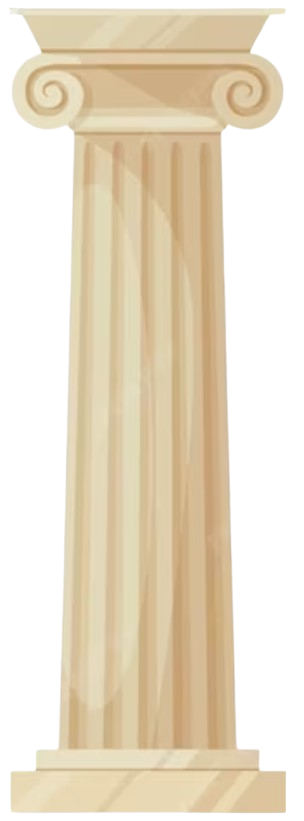
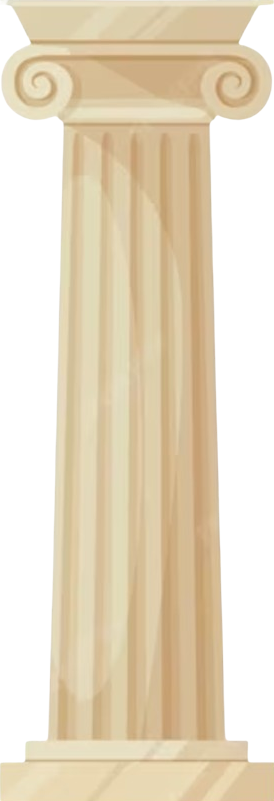
added parallax, no bugs

Changed region(s): [[0.0, 0.0, 1.0, 1.0], [0.438, 0.4682, 0.4672, 0.5618]]

diff --git a/minimalist-game-framework-core/Game/Game.cs b/minimalist-game-framework-core/Game/Game.cs
@@ -26,7 +26,7 @@ class Game
     private LoseScreen loseScreen = new LoseScreen();
     private CreditScreen creditScreen;
     private bool showStartMenu = true;
-    public  static Player player;
+    public static Player player;
     private Map map;
     private List<NPC> redNPCs;
     private List<NPC> greyNPCs;
@@ -54,7 +54,7 @@ class Game
     private int numGreyNPC;
     private Texture loseScreenTexture;
     private bool debugMode = false;
-    private float deathTime=0;
+    private float deathTime = 0;
 
     public Game()
     {
@@ -75,14 +75,14 @@ class Game
         //startMenu = new StartMenu();
         loseScreenTexture = Engine.LoadTexture(System.IO.Path.GetFullPath("Assets\\LoseScreen.png"));
         bgMusic = Engine.LoadMusic("bgm.mp3");
-        
+
         //CollisionManager.AddObj("pit", pit);
 
-        CollisionManager.AddObj("player", player); 
+        CollisionManager.AddObj("player", player);
         CollisionManager.AddObj("spear", spear);
         //CollisionManager.AddObj("slide", slide);
         localCamera = new Camera();
-        background = Engine.LoadTexture(System.IO.Path.GetFullPath("Assets\\backgroundCopy.jpeg"));
+        background = Engine.LoadTexture(System.IO.Path.GetFullPath("Assets\\background.jpeg"));
     }
     //
 
@@ -117,12 +117,13 @@ class Game
                 //map.setBackgroundColor();
                 Engine.DrawTexture(background, new Vector2(0, 0), null, new Vector2(640, 480));
 
-                
+
 
 
 
                 player.playerLoop();
-                localCamera.updateCamera(player.position);
+                localCamera.parallaxLayer1(localCamera.updateParallaxLayer1(player.position));
+                localCamera.updateGlobalCy(player.position, player.size, player.playerVelocity);
                 spear.spearLoop();
                 foreach (var block in levelBlocks)
                 {
@@ -201,7 +202,7 @@ class Game
                 foreach (var r in redNPCs)
                 {
                     r.Update();
-                } 
+                }
                 foreach (var g in greyNPCs)
                 {
                     g.Update();
@@ -210,8 +211,8 @@ class Game
                 {
                     f.FireLoop();
                 }
-            
-                if(Game.player.chargeBar.getCharge() > 100)
+
+                if (Game.player.chargeBar.getCharge() > 100)
                 {
                     Game.player.setCharge(100);
                 }
@@ -224,33 +225,33 @@ class Game
                     //loseScreen.show();
 
                 }
-                
-                
+
+
                 // Check if back button is clicked in RulesMenu or CreditScreen
                 if (rulesMenu.IsBackButtonClicked() || creditScreen.IsBackButtonClicked())
                 {
                     showStartMenu = true;
                 }
 
-            // Checkpoint collision detection
-            /*foreach (var checkpoint in checkpoints)
-            {
-                if (CollisionManager.checkCheckpointCollision(player, checkpoint.Bound))
+                // Checkpoint collision detection
+                /*foreach (var checkpoint in checkpoints)
                 {
-                    currLevel++;
-                    checkpoints.Clear();
-                    CollisionManager.blocks.Clear();
-                    CollisionManager.collidables.Clear();
-                    winScreen.show(); 
-                    string path = "Game\\level" + currLevel.ToString() + ".txt";
-                    LoadNewLevel(path);
-                    player.position = new Vector2(100, 300); // Reset position
-                    
-                    break;
-                
-            
-                }
-                */
+                    if (CollisionManager.checkCheckpointCollision(player, checkpoint.Bound))
+                    {
+                        currLevel++;
+                        checkpoints.Clear();
+                        CollisionManager.blocks.Clear();
+                        CollisionManager.collidables.Clear();
+                        winScreen.show(); 
+                        string path = "Game\\level" + currLevel.ToString() + ".txt";
+                        LoadNewLevel(path);
+                        player.position = new Vector2(100, 300); // Reset position
+
+                        break;
+
+
+                    }
+                    */
             }
             if (playerDeath)
             {
@@ -345,7 +346,7 @@ class Game
         int level = 1;
         double highestFloor = 0;
 
-        for (int y = lines.Length-1; y >= 0; y--)
+        for (int y = lines.Length - 1; y >= 0; y--)
         {
             for (int x = 0; x < lines[y].Length; x++)
             {
@@ -394,7 +395,7 @@ class Game
                 {
                     Vector2 position = new Vector2(x * Blocks.size.X, Resolution.Y - (newY * Blocks.size.Y));
                     levelSeperators.Add(new LevelSeperator(position, Blocks.size));
-                    if (x+1 >= lines[y].Length || lines[y][x+1] !='S')
+                    if (x + 1 >= lines[y].Length || lines[y][x + 1] != 'S')
                     {
                         level++;
                     }
@@ -416,9 +417,10 @@ class Game
                 {
                     Vector2 position = new Vector2(x * Blocks.size.X, Resolution.Y - (newY * Blocks.size.Y));
                     redNPCs.Add(new NPC(level, position, player, Color.Red, 200f, 0.5f, "Assets\\redGhost.png", "npc1"));
-                } else if (lines[y][x] == 'b')
+                }
+                else if (lines[y][x] == 'b')
                 {
-                    Vector2 position = new Vector2 (x * Blocks.size.X, Resolution.Y - (newY * Blocks.size.Y));
+                    Vector2 position = new Vector2(x * Blocks.size.X, Resolution.Y - (newY * Blocks.size.Y));
                     boss = new Boss(level, highestFloor, position, player, 150f, 1.0f);
                 }
                 else continue;
@@ -452,14 +454,14 @@ class Game
             //block.blockLoop();
             CollisionManager.addBlock(block);
         }
-        
+
         foreach (var pit in pits)
         {
             //pit.pitsLoop();
             CollisionManager.AddObj("pit", pit);
         }
-        
-        
+
+
         foreach (var flower in flowers)
         {
             CollisionManager.AddObj("flower", flower);
@@ -504,4 +506,3 @@ class Game
         enemiesKilled++;
     }
 }
-

diff --git a/minimalist-game-framework-core/Game/Camera.cs b/minimalist-game-framework-core/Game/Camera.cs
@@ -8,51 +8,56 @@ internal class Camera
     private static readonly int width = 640;
     public static readonly int height = 480;
     public static float globalCy;
-    private float offset = Game.player.size.Y/4;
+    private float offset = Game.player.size.Y / 4;
 
-    float layer1Y;
-    private Texture columnLeft1;
-    private Texture columnRight1;
-
+    float layer1Pos;
+    private Texture columnLayer1Left;
+    private Texture columnLayer1Right;
 
     public Camera()
     {
         screen = new Vector2(width / 2, height / 2);
         globalCy = Game.player.Position.Y + 60;
-        layer1Y = 0;
-        columnLeft1 = Engine.LoadTexture(System.IO.Path.GetFullPath("Assets\\greek-column-copy.png"));
-        columnRight1 = Engine.LoadTexture(System.IO.Path.GetFullPath("Assets\\greek-column-copy.png"));
+        layer1Pos = 0;
+        columnLayer1Left = Engine.LoadTexture(System.IO.Path.GetFullPath("Assets\\greek-column.png"));
+        columnLayer1Right = Engine.LoadTexture(System.IO.Path.GetFullPath("Assets\\greek-column.png"));
     }
 
     public Vector2 globalToLocal(Vector2 global)
     {
-        return new Vector2(global.X, global.Y - offset);
-        
+        Vector2 local = new Vector2(global.X, global.Y - offset);
+        //Vector2 local = new Vector2(global.X, Math.Abs(global.Y - globalCy) - height);
+        //System.Console.WriteLine(local.X + "  " + local.Y);
+        return local;
+
     }
-    public void updateCamera(Vector2 playerPos)
+    public void updateGlobalCy(Vector2 globalPlayer, Vector2 playerSize, Vector2 playerVelocity)
     {
-        offset += playerPos.Y - globalCy;
-        globalCy = playerPos.Y;
+        offset += globalPlayer.Y - globalCy;
+        globalCy = globalPlayer.Y;
 
-        parallaxLayer1(playerPos);
     }
 
-    public void parallaxLayer1(Vector2 playerPos)
+    public float updateParallaxLayer1(Vector2 globalPlayer)
     {
-        float change = (playerPos.Y - globalCy) / 3;
+        return (globalPlayer.Y - globalCy) / 2;
+    }
 
-        layer1Y -= change;
-        Engine.DrawTexture(columnLeft1, new Vector2(10, layer1Y), null, new Vector2(130, 480));
-        Engine.DrawTexture(columnLeft1, new Vector2(500, layer1Y), null, new Vector2(130, 480));
+    public void parallaxLayer1(float change)
+    {
+        layer1Pos -= change;
+        Engine.DrawTexture(columnLayer1Left, new Vector2 (10, layer1Pos), null, new Vector2(130, 480));
+        Engine.DrawTexture(columnLayer1Right, new Vector2(500, layer1Pos), null, new Vector2(130, 480));
 
-        if (480 - layer1Y > 0)
+        if (480 - layer1Pos > 0)
         {
-            float aboveTile = - (480- layer1Y);
-            Engine.DrawTexture(columnLeft1, new Vector2(10, aboveTile), null, new Vector2(130, 480));
-            Engine.DrawTexture(columnLeft1, new Vector2(500, aboveTile), null, new Vector2(130, 480));
-        } else
+            float tile2 = -(480 - layer1Pos);
+            Engine.DrawTexture(columnLayer1Left, new Vector2(10, tile2), null, new Vector2(130, 480));
+            Engine.DrawTexture(columnLayer1Right, new Vector2(500, tile2), null, new Vector2(130, 480));
+        }
+        else
         {
-            layer1Y = 0;
+            layer1Pos = 0;
         }
 
 
